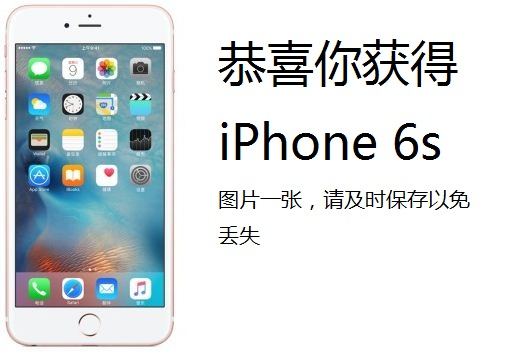
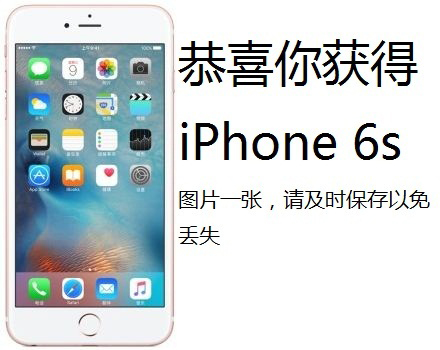
123344

diff --git a/js/demo.js b/js/demo.js
@@ -65,16 +65,16 @@ function stop(e) {
 	choubtn.style.background='black';
 	choubtn.style.color='#f93';
 	ran=Math.floor(Math.random()*100);
-	if (ran>-1&&ran<50) {
+	if (ran>=-1&&ran<16) {
 		result=2;
-	} else if (ran>49&&ran<60) {
-		result=2;
-	} else if (ran>59&&ran<70) {
-		result=2;
-	} else if (ran>69&&ran<80) {
-		result=2;	
-	} else if (ran>79&&ran<90) {
-		result=2;
+	} else if (ran>=16&&ran<32) {
+		result=3;
+	} else if (ran>=32&&ran<48) {
+		result=4;
+	} else if (ran>=48&&ran<64) {
+		result=5;	
+	} else if (ran>=64&&ran<80) {
+		result=6;
 	}else {
 		result=1;
 	}
@@ -82,6 +82,24 @@ function stop(e) {
     cishu=0;
     res();
     
+}
+
+
+picwid();
+function picwid() {
+	var availw=window.document.body.scrollWidth,
+		norwid=356;
+	if (availw<460) {
+		norwid=availw-20;
+	}
+	for (var i = 6; i > 0; i--) {
+		var picture=document.getElementById('pic'+i);
+			picw=picture.style.width,
+			pich=picture.style.height;
+		picture.style.width=norwid+'px';
+		picture.style.width=norwid/picw*pich+'px';
+	}
+
 }
 
 function res() {
@@ -98,13 +116,20 @@ function res() {
 		}else {
 			choubtn.innerHTML='再 来<br>一 次';
 			choubtn.onclick=start;
-			document.onclick=function () {
-				chouUI.style.display=null;
-				choujiang.style.display='block';
-				document.onclick=null;
-			}
-			var respic=document.getElementById('pic'+result);
+			var respic=document.getElementById('pic'+result);	
 			respic.style.display='block';
+			chouUI.style.display='none';
+			respic.onclick=function (e) {
+				respic.style.display='none';
+				e=e||window.event;
+				e.stopPropagetion?e.stopPropagetion():e.cancelBubble=true;
+				chouUI.style.display='block';
+				document.onclick=function () {
+					chouUI.style.display=null;
+					choujiang.style.display='block';
+					document.onclick=null;
+				}
+			}
 		}
 	},t);
 }

diff --git a/demo.html b/demo.html
@@ -30,12 +30,14 @@
 		</table>
 		
 	</div>
-	<img src="" alt="" id="pic1">
-	<img src="picture/iphone6.JPG" alt="iphone6s" id="pic2">
-	<img src="" alt="" id="pic3">
-	<img src="" alt="" id="pic4">
-	<img src="" alt="" id="pic5">
-	<img src="" alt="" id="pic6">
+	<div class="g-img">
+		<img src="picture/thank.png" alt="Thank you!" class="pic" id="pic1">
+		<img src="picture/iphone6.JPG" alt="Iphone6 s" class="pic" id="pic2">
+		<img src="picture/samsung.jpg" alt="三星笔记本" class="pic" id="pic3">
+		<img src="picture/chinamobile.jpg" alt="50元充值卡" class="pic" id="pic4">
+		<img src="picture/camera.jpg" alt="佳能相机" class="pic" id="pic5">
+		<img src="picture/ipad.jpg" alt="Ipad" class="pic" id="pic6">
+	</div>
 	<script type="text/javascript" src="js/demo.js"></script>
 </body>
 </html>

diff --git a/cs/demo.css b/cs/demo.css
@@ -68,38 +68,48 @@
 	color: #f93;
 }
 
-#pic1 {
-	width: 30px;
-	height: 30px;
-	position: absolute;
-	right: 0;
+.g-img {
+	width: 100%;
+	position: fixed;
+	top: 10%;
 }
 
-#pic2 {
-	width: 512px;
-	height: 358px;
+.pic {
 	border: 5px solid #f22;
-	position: fixed;
-	left: 25%;
-	top: 20%;
 	display: none;
+	margin:0 auto;
+}
+
+/*#pic1 {
+	width: 415px;
+	height: 413px;
+	display: block;
+}*/
+
+/*#pic2 {
+	width: 440px;
+	height: 350px;
 }
 
 #pic3 {
-	
+	width: 360px;
+	height: 354px;
 }
 
 #pic4 {
-	
+	width: 350px;
+	height: 455px;
 }
 
 #pic5 {
-	
+	width: 377px;
+	height: 423px;
 }
 
 #pic6 {
-	
-}
+	width: 318px;
+	height: 437px;
+}*/
 
 @media screen and (max-width: 460px){
 		.jiangpin {
